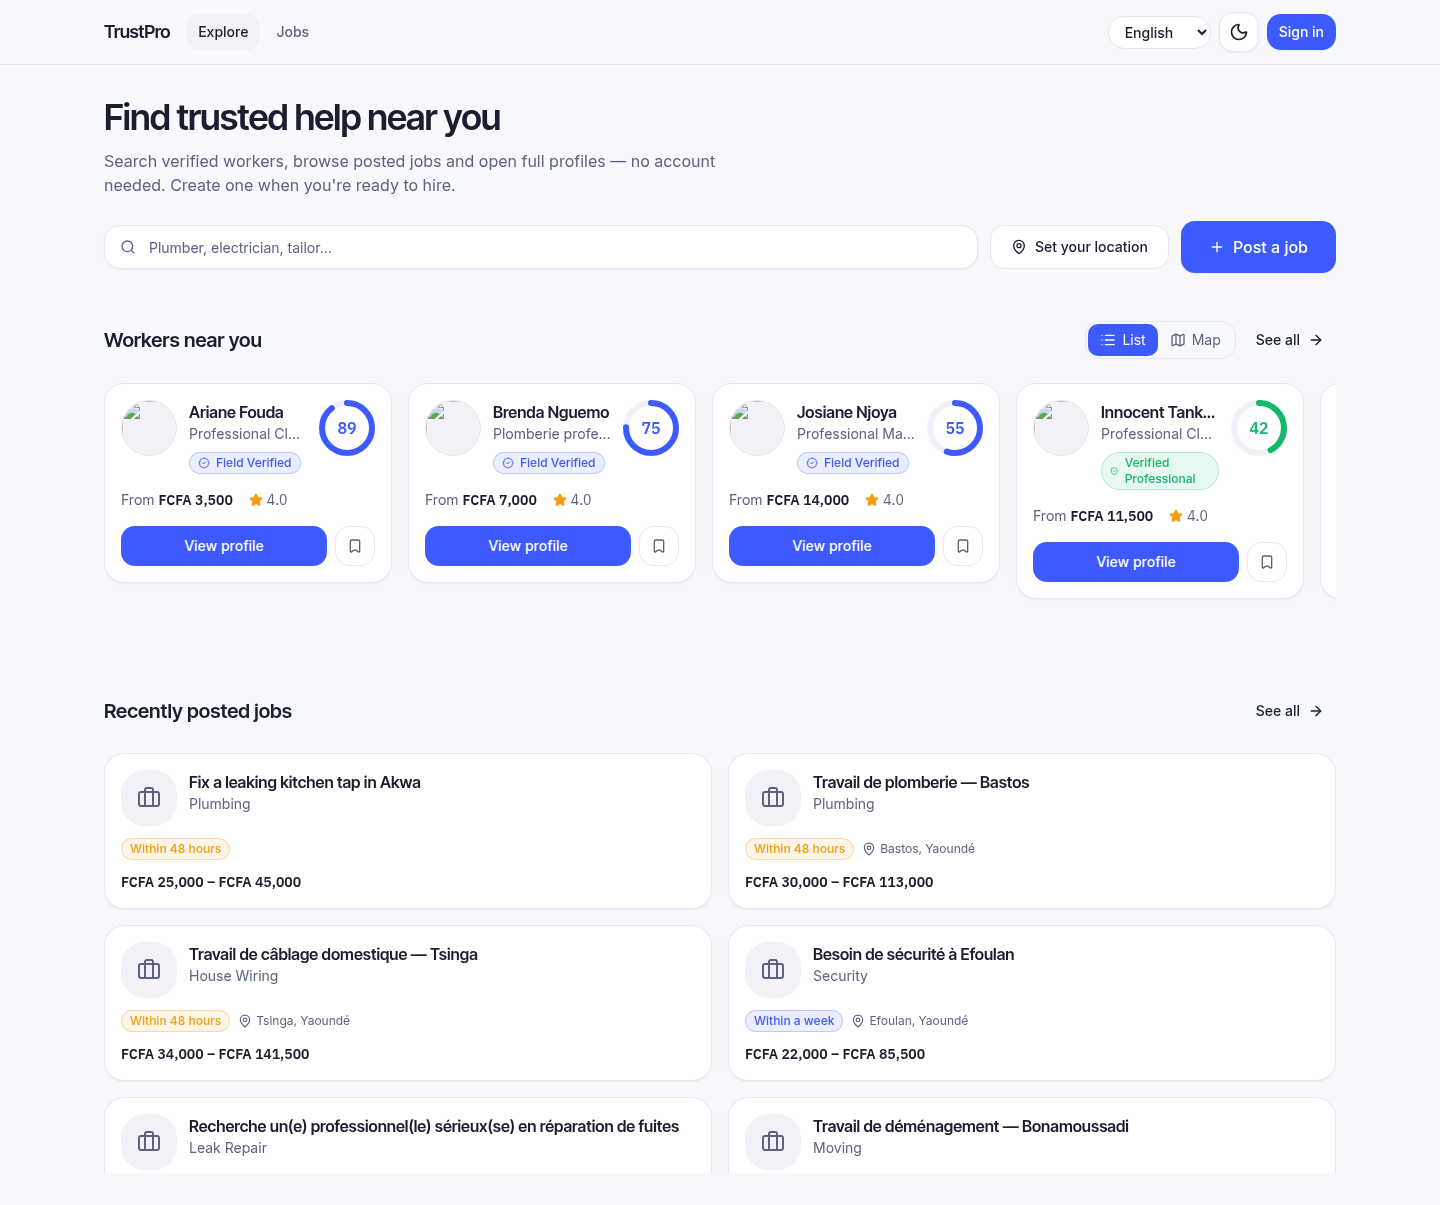
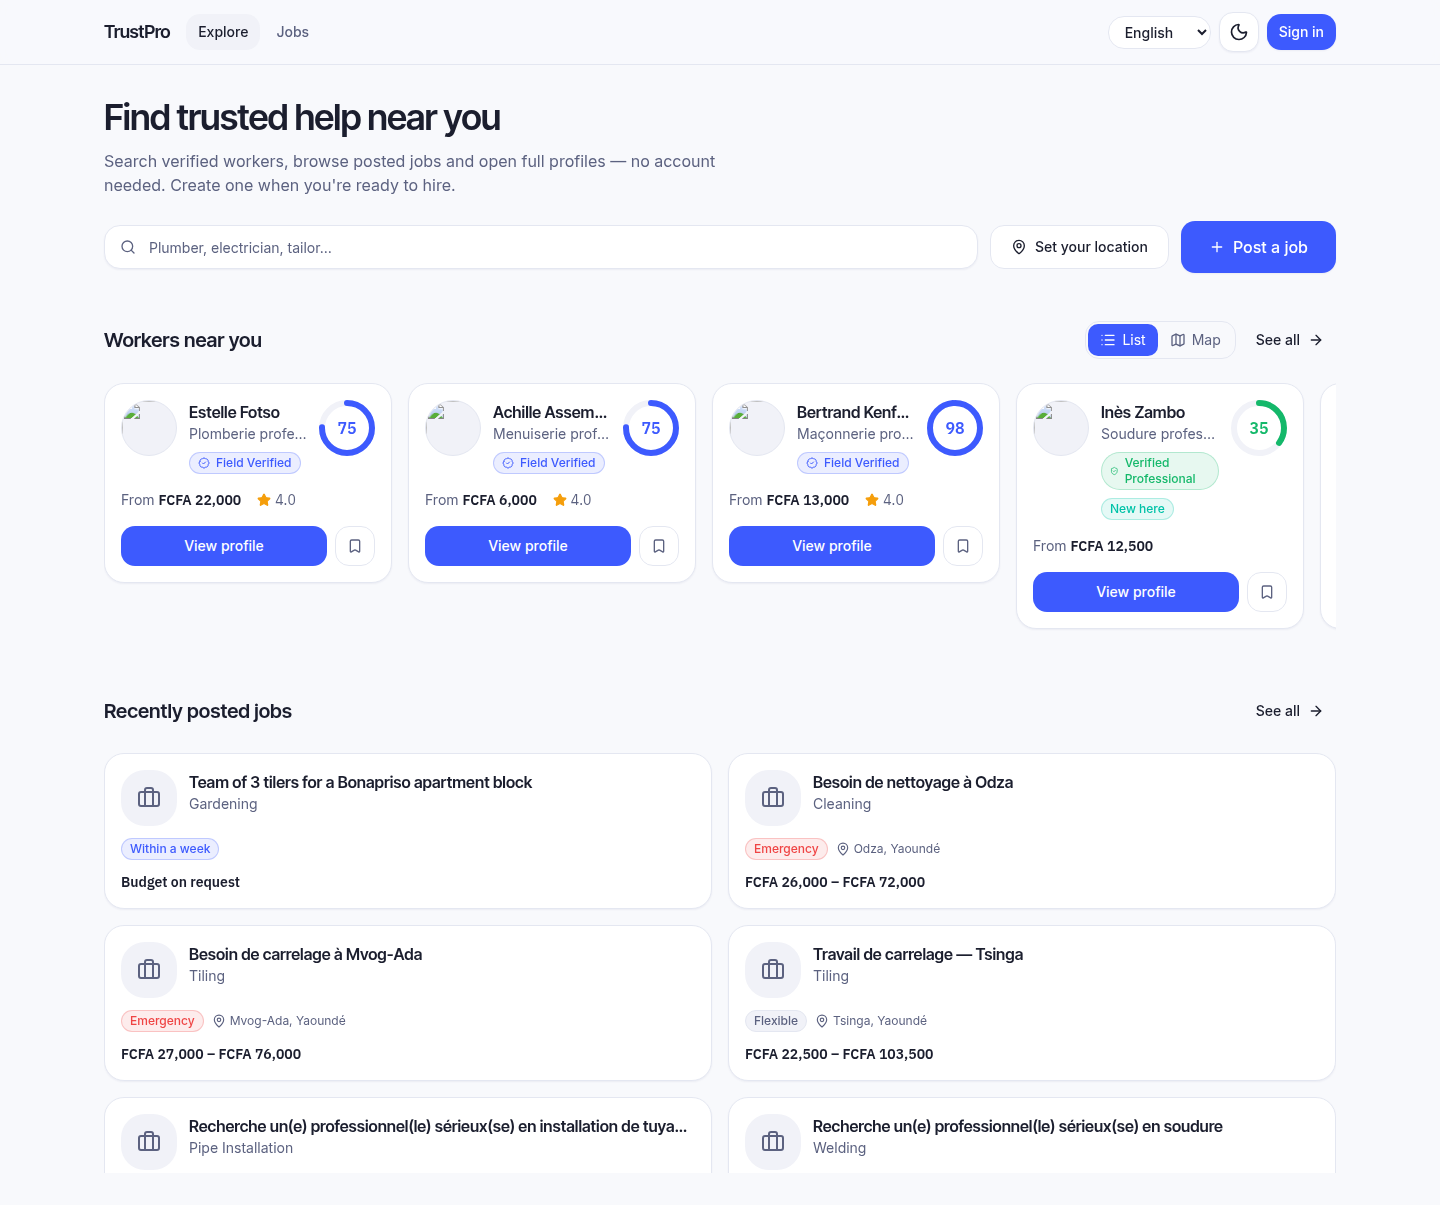
docs: record the reworked trust model, new demo accounts and what remains
Updates the runbook for the model change: workers earn discovery, clients owe
no KYC, only a verified business advertises on the board, and ranking rotates
within bands. Adds the accounts that demonstrate each side of those gates —
including a business that cannot yet post and workers deliberately hidden from
search — and a demo path built around the contrast, since the refusal is the
moat rather than an obstacle to route around.

Also records, plainly, the six items from the same brief that are NOT built
yet (worker verification banner, signup role choice, business hint entry point,
posting fee in the UI, location pickers, fuzzy search on the remaining bars) so
none of them is quietly lost.

Claude-Session: https://claude.ai/code/session_01N2UJ26GEeKvmRtYppaixk3

diff --git a/docs/DEMO_READINESS.md b/docs/DEMO_READINESS.md
@@ -82,6 +82,71 @@ Verified" / "Téléphone vérifié".
 
 ---
 
+## The trust model, as it now behaves
+
+This changed materially after the first pass. Three rules:
+
+**1. Workers earn discovery; clients owe nothing.**
+A worker profile appears in search, explore and the map tiles only once the
+identity has verified a contact channel (phone **or** email) *and* had an ID
+approved. Everyone else keeps a private profile and simply does not appear.
+Clients have no KYC at all — they browse, hire, pay escrow and review freely.
+The asymmetry is the product: you are trusting the person who comes to your
+house, not the person who opens the door.
+
+The gate lives in the `search.searchable_worker` view, so every reader inherits
+it and none can forget it. Of 21 active seeded workers, 11 are discoverable.
+
+**2. Hiring and advertising are different acts.**
+Publishing now carries a visibility:
+
+| | Who | Verification | Fee | On the board? |
+| --- | --- | --- | --- | --- |
+| `DIRECT` | Any client | None | None | No |
+| `PUBLIC` | Verified business only | Owner ID **+** RCCM | Flat, admin-set | Yes |
+
+The gate had to sit on visibility rather than on job creation: a Quote requires
+a Job, and a Job must be OPEN before it can be quoted on, so gating creation
+would have stopped clients hiring anyone at all. `job:create` therefore remains
+on both roles and the reason is recorded in `permissions.ts`.
+
+**3. Ranking gives everyone a turn.**
+Scores are floored into bands. A band still beats the band below it, so a
+clearly better worker still wins — but inside a band the order is a hash of
+(worker, viewer). One visitor sees a stable order across refreshes and paging;
+two visitors see different workers first. Without this the same handful sat on
+top of every search forever and nobody below could earn the jobs that would
+raise their score.
+
+**Verified end to end:** a verified business publishes PUBLIC (200) and the job
+appears on the board; a client publishing PUBLIC is refused (403,
+`BUSINESS_VERIFICATION_REQUIRED`) while publishing DIRECT succeeds (200) and
+correctly stays off the board.
+
+### Settings that are now live
+
+`SystemSetting` was admin-writable but nothing read it — every "setting" was
+decoration. `PlatformSettingsService` is the runtime reader (cached, invalidated
+on save). Two new keys, both editable in **Admin → Settings**:
+
+- `verification.contactChannel` — `PHONE` | `EMAIL` | `EITHER`. **Seeded to
+  `EMAIL`**, because SMS is a paid aggregator you have not connected and email
+  is the channel that actually delivers a code today. Flip it the day SMS goes
+  live; no code change.
+- `jobs.postingFeeXaf` — flat charge to publish. Seeded to `0`. The fee is
+  frozen onto the job at publish time, so changing it later never restates what
+  past posters were charged.
+
+### Payments without Campay
+
+With no `CAMPAY_*` credentials there is no operator prompt and no webhook, so
+escrow used to sit `PENDING` forever and every state past it — release, payout,
+dispute, refund — was unreachable in dev. A stub initiation now drives the
+ordinary reconciliation path: the *same* code a live webhook triggers, not a
+parallel one that could drift. Inert the moment real credentials exist.
+
+---
+
 ## Before you demo — please do these
 
 **Run the production build, not `pnpm dev`.**
@@ -115,10 +180,11 @@ test on the venue network first.
 
 | Role | Account | Notes |
 | --- | --- | --- |
-| Client (can post jobs) | `client1@example.com` … `client6@example.com` | Tier 2, ID-verified |
-| Client (shows the gate) | `client11@example.com` | Tier 0 — good for showing the anti-lure wall |
-| Worker | `worker2@example.com` | Tier 3, high Trust Score |
-| Business | `business1@example.com` | Team seats populated |
+| **Verified business (posts to the board)** | `business1@example.com`, `business2@example.com` | Owner ID **and** RCCM approved — the only accounts that can publish a public vacancy |
+| Business, not yet verified | `business3@example.com` | Shows the "get verified as a business" wall |
+| Client | `client1@example.com` … `client6@example.com` | No KYC needed. Hires directly, pays escrow, reviews |
+| Worker (visible in search) | `worker14@example.com`, `worker18@example.com` | Contact-verified + ID-approved |
+| Worker (hidden from search) | `worker1@example.com`, `worker7@example.com` | Not yet ID-approved — shows the discovery gate |
 | Field agent | `agent.douala@trustpro.cm` | Verification queue |
 | Admin | `admin@trustpro.cm` | **2FA — code prints to the API terminal** |
 
@@ -127,14 +193,58 @@ test on the venue network first.
 1. Landing page (EN), scroll the Trust Engine ladder → switch to FR mid-scroll.
 2. Explore workers as a **guest** — no account — open a full worker profile
    (Trust Score ring, verified checks, portfolio, reviews).
-3. Click *Request a quote* → hits the login wall → sign in → **the intent
+3. **Refresh the search in a second browser profile.** Different visitor,
+   different workers on top, same order on every refresh — the ranking gives
+   everyone a turn instead of crowning the same few forever.
+4. Click *Request a quote* → hits the login wall → sign in → **the intent
    resumes**.
-4. Post a job end to end as `client1@example.com` (4-step wizard, autosave,
-   XAF budget) → published.
-5. Optional contrast: try it as `client11@example.com` to show the
-   "Verify your identity to post a job" gate — that *is* the moat.
-6. Finish in the admin console: KPIs, escrow held/released, disputes, SOS
-   alerts, fraud & risk, and the audit log.
+5. Hire as `client1@example.com` — no KYC, straight to quote and escrow. This
+   is the client story: trust is demanded of the person entering your home, not
+   of the person opening the door.
+6. Switch to `business1@example.com` and post a **public vacancy** to the job
+   board. Then try the same as a client and hit
+   *"Get verified as a business to post job vacancies"* — that contrast **is**
+   the moat.
+7. Finish in the admin console: KPIs, escrow held/released, disputes, SOS
+   alerts, fraud & risk, the audit log, and **Settings → the posting fee and
+   contact channel are live switches**, not decoration.
+
+---
+
+## Still outstanding from the product rework
+
+The trust/visibility/ranking model above is **built and verified end to end**.
+These items from the same brief are **not done yet** — recorded here so nothing
+is lost, roughly in the order I would take them:
+
+1. **Worker dashboard verification banner.** A worker whose contact is
+   unverified should see a banner that sends an OTP inline (button → the banner
+   becomes a code input), then advances to an "verify your ID" CTA pointing at
+   the verification page. *Backend is ready — the OTP endpoint and the gate both
+   exist; this is the UI.*
+2. **Signup role choice.** Signup still asks "find work / hire". It should not:
+   one identity holds both roles and switches between them. Removing the
+   question also removes the wrong mental model it plants.
+3. **"Are you a business?" hint.** A client browsing workers should see a
+   prompt to get verified as a business, routing into the selfie + ID + RCCM
+   upload. *The refusal message and step codes already come back from the API;
+   what is missing is the entry point and the upload screen.*
+4. **Posting fee in the UI.** `jobs.postingFeeXaf` is read, frozen onto the job
+   and admin-editable, but the publish step does not yet show the amount, and
+   `0` should read as **"Free"** rather than "FCFA 0".
+5. **Location pickers.** Job location already stores a pin, reverse-geocodes to
+   quarter + town and renders on the board ("Odza, Yaoundé"). Missing: an
+   explicit *use my current location* / *drag pin* control on job creation, an
+   *open in maps* button everywhere a job is shown including for guests, and an
+   editable worker-profile location with free-text extra detail.
+6. **Fuzzy search on the remaining bars.** Worker search is genuinely
+   typo-tolerant (`pg_trgm` + `unaccent`, threshold 0.2, matching service names
+   and EN/FR category names — "plombri" finds plumbers). The **job board** and
+   **admin** search inputs have not been audited and probably do plain matching.
+
+Two things from the brief were already true and needed no work: **service
+categories are fully admin-configurable** (CRUD, retire/restore, reorder in
+Admin → Categories), and worker search was already fuzzy.
 
 ---
 
